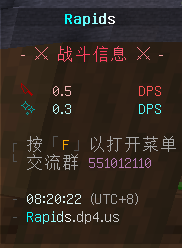
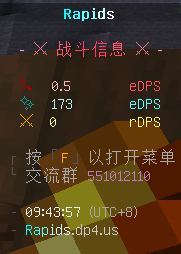
docs: 20260618-2

diff --git a/docs/rapids/updatelogs.md b/docs/rapids/updatelogs.md
@@ -203,14 +203,17 @@
   - 完成了基本的 `宝箱` 配置与「峡谷 `Foray`」的放置。<br>宝箱将沿袭 DP 传统，位置将以刁钻难找为主要目标。
     <br><img src="/rapids/rapids_img/updatelogs/lootchest-preview.png" loading="lazy">
 - 查询属性指令独立为 `/info`，你现可以更快地查询实时怪物属性。对于玩家，更推荐通过 `/stats` 查询属性。
-- 新增了期望 `DPS` 概念，现在 `DOT` 的伤害系数将基于 `DPS` 来计算。
+- 新增了 `eDPS` 概念，现在 `DOT` 的伤害系数将基于 `eDPS` 来计算。
   <br>同时，当你处于战斗场景时，也可以在信息栏查看到到当前 `DPS`。
-  <br>但需要注意，该 `DPS` 仅基于 rawDmage 与 攻击速度/施法速度 进行的期望数值，不包含会心/命中/元素等后续判断。
+  - `eDPS` 仅基于 rawDmage 与 攻击速度/施法速度 进行的期望数值，不包含会心/命中/元素等后续判断。
+  - `rDPS` 为最近 `5s` 造成的秒均伤害。
 - 新增了 Rapids 独有的 `计分板` 实现。完成了基本的信息设置。
   <br><span class="inline-tips">注：此处 AP 并非 Achievement Points，而是 Action Points， 即 PS (体力值)。但 Alpha Test 暂且用不到。</span>
   <br><div style="display: flex; gap: 1em; flex-wrap: wrap;align-items: center;"><img src="/rapids/rapids_img/updatelogs/scoreboard-default.png" loading="lazy"><img src="/rapids/rapids_img/updatelogs/scoreboard-combat.png" loading="lazy"></div>
 - 完成了怪物击杀后的 `范围经验获取` 功能。暂定范围为 `12` 格。
 - 优化了部分系统间的互通信链路。
+- 现在，`强化` 所提升的属性将仅有 `三系攻击` `护甲` `生命值` 这类基础属性。副词条亦不参与提升。
+
 
 ---
 